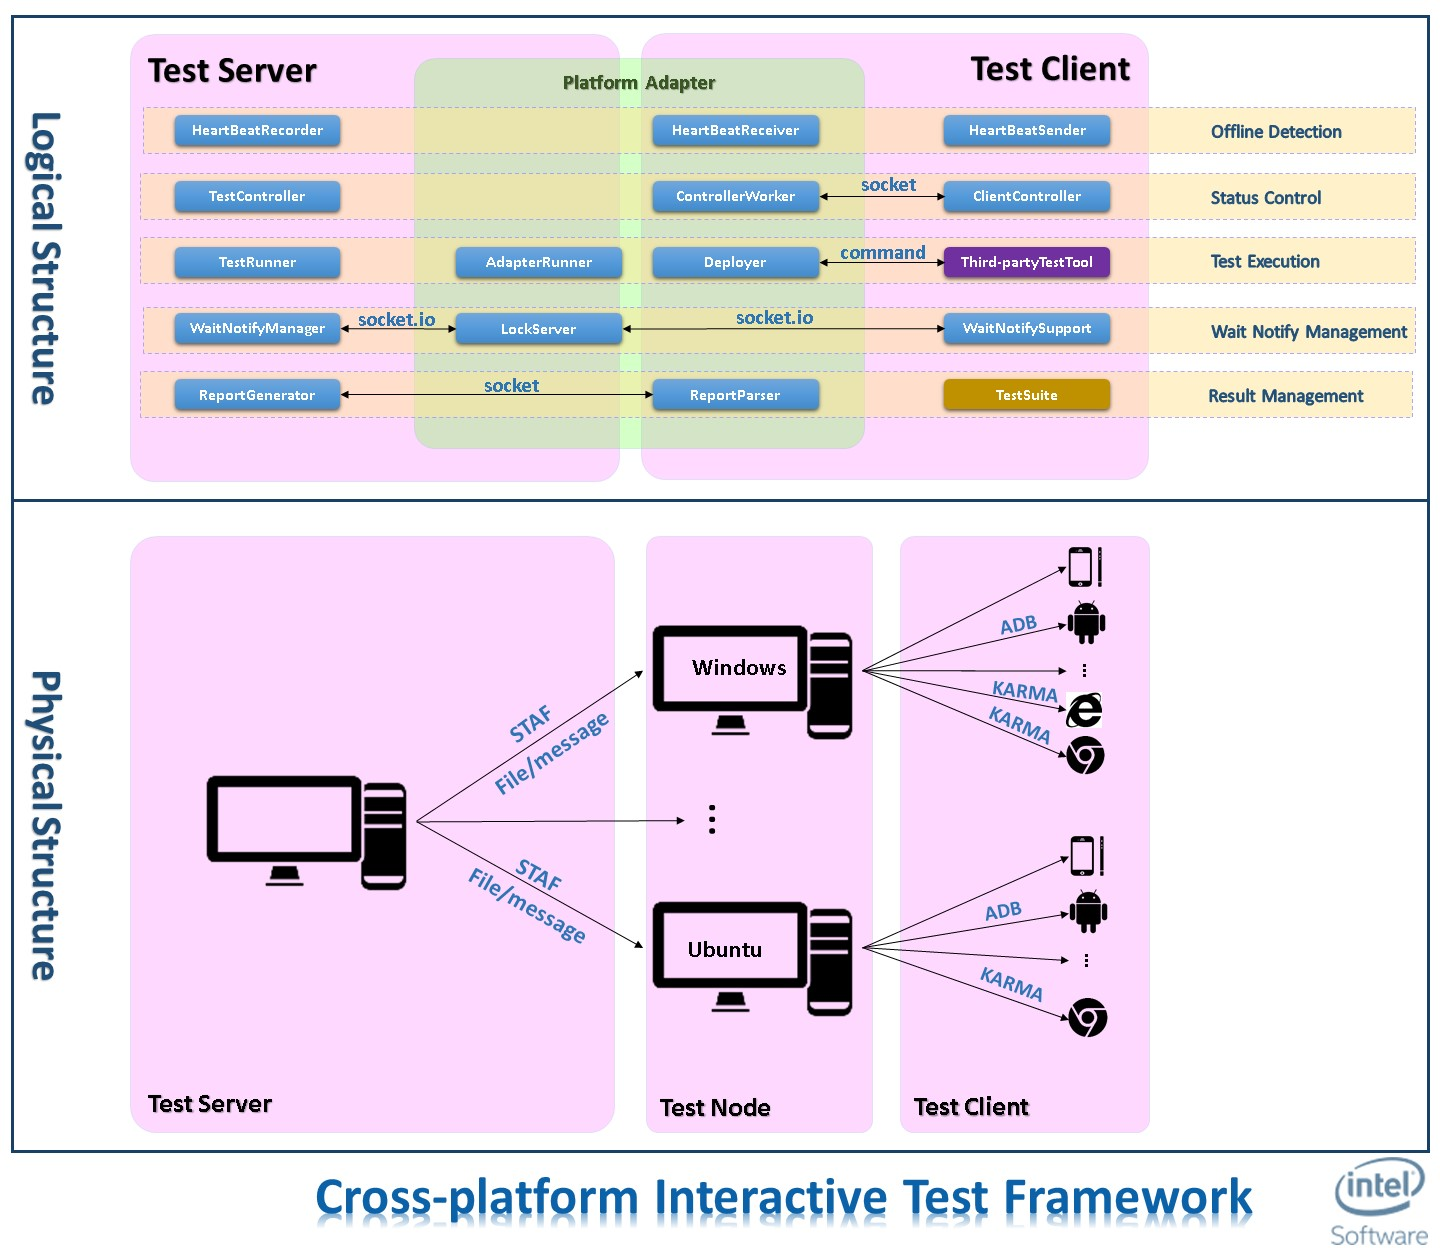
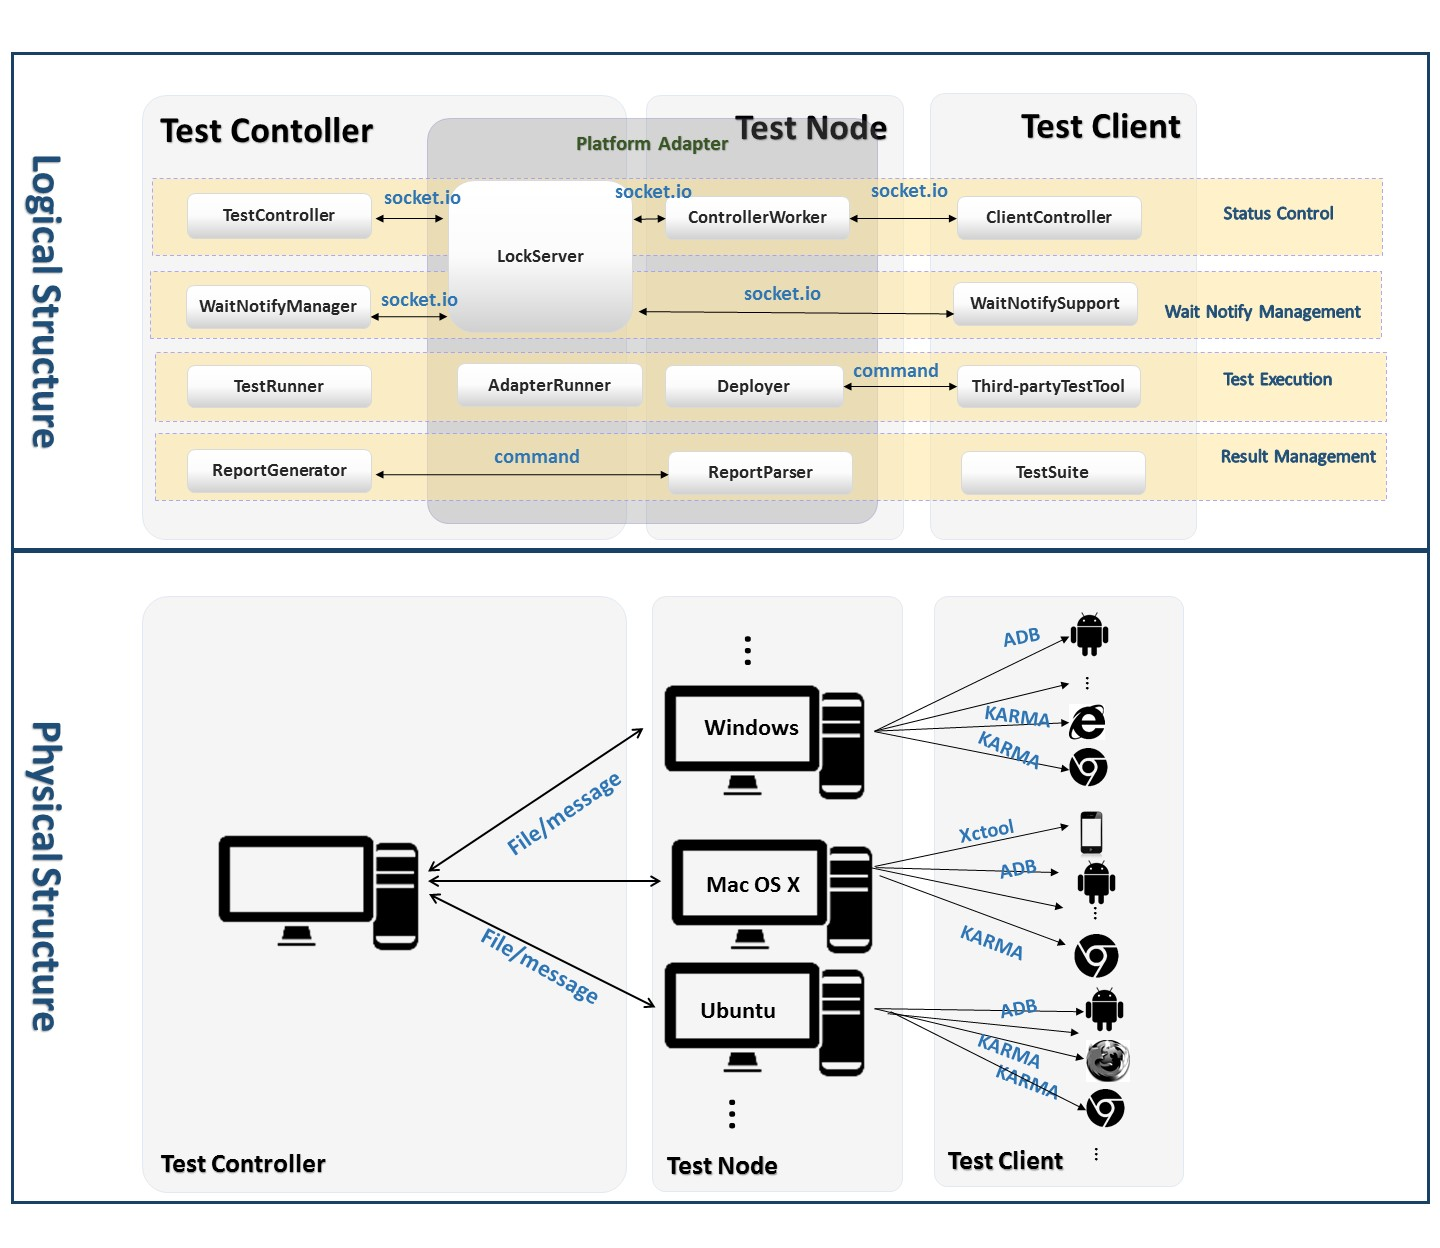
Update architecture and corresponding readme file (#7)

diff --git a/readme.md b/readme.md
@@ -10,7 +10,7 @@ Different from traditional test tools, the test roles can be deployed under diff
 
 The advantages of this framework are as followings:
 
-- **Cross-platform**: In particular occasions, we have to test on devices under different platforms and they may have a sequence of interactive operations. Though we can employee mock things to do the testing, it cannot reflect the real circumstance.
+- **Cross-platform**: In particular occasions, we have to test on devices under different platforms and they may follow a specific sequence of interactive operations. Though we can employee mock things to do the testing, it cannot reflect the real circumstance.
 - **Minimize Code Labor**: The test code is divided into test roles and combined into test case according to the test method name. So the code can be reused event other roles in this test case changes to another platform.
 - **Wait-Notify Mechanism**: In order to control the execution order under different platforms, we implement a cross-platform lock events and wait-notify mechanism.
 
@@ -21,48 +21,52 @@ The following figure shows the architecture of this framework.
 
 ### Logical Structure
 
-1. **Offline Detection**: Employ heartbeat mechanism to detect whether the test devices are offline.
-    - HeartBeatRecorder: Manage the received heart beat messages from all test clients automatically.
-    - HeartBeatReceiver: Run on distributed test node, collect heartbeat from test device and send to test server.
-    - HeartBeatSender: Run on test device, Start a thread that regularly sends heart beat messages to server.
-2. **Status Control**: Send device test status and messages according to message protocol
-    - TestController: Communicate with ClientController, mainly collect device test status (and  other messages).
-    - ControllerWorker: Receive the messages from ClientController on all the devices of that test node.
-    - ClientController: Send out device test status and messages
-3. **Test Executing**: Manage the executing, mainly utilizing the OS and third-party test tools
-    - TestRunner: Control the test process . Utilizing the RunnerHelper in different platform to deploy test start test and access the third-party test tools. Managing the LockServer to pass lock between test server and test devices. Collecting the test result for the TestSuite.
-    - AdapterRunner: For one specific platform, help TestRunner to direct the test execution. Help clean the test environment , start a test on a device and return the running environment.
-    - Deployer: Wrapper of third-party test tool that deploy test case on device and start test on that single platform test tool.
-    + Third-party Test Tool:  Android instrumentation & karma for javascript.
-4. **Wait Notify Management**: Implement a  cross-platform wait-notify mechanism between all the test devices.
-    - WaitNotifyManager: Be responsible for the management of the remote wait-notify mechanism. Maintain the waiting list &notify list and send wait-notify messages to testdevices.
-    - LockServer: passing locking message between WaitNotifyManager and local WaitNotifySupport with socket.io, in order to unify the communication between  the two component and reduce the relatedness to specific platform.
-    - WaitNotifySupport: Mainly wrap local wait-notify operations on test device.
-5. **Result Management**: report the result of given TestSuite from user.
-    - ReportGenerator: generate the test result of TestSuite after all TestCase s have done.
-    - ReportParser: Send all the device results on test node to TestServer.
-    - TestSuite: User defined test logic.
+In this section, we present our design to address the aforementioned problems via four corresponding components of IATF logical structure: Status Control, Test Execution, Wait Notify Management and Result Management.
+
+1. **Status Control**: It is used to monitor device status during testing and Sends device test status and messages according to the message protocol.
+    + TestController: Communicates with ClientController, mainly collects device test status, and dispatches the start case running or stop case running messages. Manages the received heartbeat messages from all test clients automatically.
+    + ControllerWorker: Receives the messages from ClientController on all the devices of that test node. Collects heartbeats from test devices and sends them to the test controller
+    + ClientController: Runs on test devices, sends out device test status and messages
+2. **Wait Notify Management**: Implements a cross-platform wait-notify mechanism across all the test devices.
+    + WaitNotifyManager: Responsible for the management of the remote wait-notify mechanism. Maintains the waiting list &notify list and sends wait-notify messages to test devices.
+    + LockServer: Passes locking message between WaitNotifyManager and local WaitNotifySupport with Socket.IO, in order to unify the communication between the two components and reduce the dependence on specific platforms.
+    + WaitNotifySupport: Mainly wraps local wait-notify operations on test devices.
+3. **Test Execution**: It is responsible for the test process control and third-party test framework integration.
+    + TestRunner: Controls the test process and utilizes the RunnerHelper on different platforms to deploy test cases, interacts with third-party test tools. It manages the LockServer (described in the component of Wait Notify Management) to transfer lock messages between the test controller and test devices. It also collects the test result for the TestSuite.
+    + AdapterRunner: For one specific platform, helps TestRunner to direct the test execution. Helps clean the test environment, start a test on a device and return the running environment.
+    + Deployer: Utilizes the third-party test tool to deploy test cases on single de-vice and start testing.
+    + Third-party Test Tool: Existing single platform API testing framework.
+4. **Result Management**: analyzes test result and generates test report to tester. <TODO>
+    + ReportGenerator: Generates the test result of TestSuite after all test cases have been done.
+    + ReportParser: Sends all the device results on test node to TestServer.
+    + TestSuite: User defined test cases.
 
 ## Physical Structure
 
-1. **Test Server**
+1. **Test Server**: The test server is the master of the whole test framework. It is responsible for whole system’s logic control as well as the state maintenance, e.g. whether the client is alive or dead, currently running cases, etc.
     + Runs the server side logic of  test framework
-    + Send deploy files or command to distributed test nodes by STAF framework
-2. **Test Node**
-    + Distributed host computers of physical test devices(browsers or android phones)
+    + Send deploy files or command to distributed test nodes.
+2. **Test Node**: The test nodes are the host computers which manage the physical test devices. They work as the middle layer between the test controller and test clients.
+    + Distributed host computers of physical test devices(e.g browsers,Android platforms or iOS platfroms etc)
     + Directly manage the devices and call the third-party test tools
     + Intermediate communication component between test server and test devices
-3. **Test Client**
-    + Executing devices of TestCases.
+3. **Test Client**: The test clients are the SUT (system under testing) on which the test cases with corresponding third-party API test framework are executed. They are deployed on top of different platforms for different types of API testing.
 
-## Sample
+## Sample with JavaScript client
 
 A sample is included to demostrate how to add and run a task for two web endpoints. Task info will be uploaded by a REST request, and both test devices will be launched by controller and WebDriver.
 
-1. Start IATF server.
-```
-node src/server/server.js --certificate_file <cert> --key_file <key>
-```
+1. Install dependence and start IATF server.
+   + Install node module
+   ```
+   cd src/server/
+   npm install
+   ```
+   + Start IATF Server
+
+   ```
+   node src/server/server.js --certificate_file <cert> --key_file <key>
+   ```
 
 2. Host test pages.
 
@@ -82,7 +86,12 @@ As current sample is a html page, you'll need a web server to host it and its re
     }]
 }
 ```
-4. Start client controller.
+4. Install prerequisite software for test client.
+   + Install the browsers you would like to test, available for your machine. Chrome, Edge, Firefox and Safari are supported at this stage. See the wiki for some limitations or hints for each browser
+   + Install webdriver,download the corresponding webdrivers for your tested browser.
+   + Modify webdriver installation path in src/controller/runners/javascriptrunner.py.
+
+5. Start client controller.
 ```
 python src/controller/controller.py --server https://localhost:8080 --no_ssl_verification --task <taskId>
 ```
